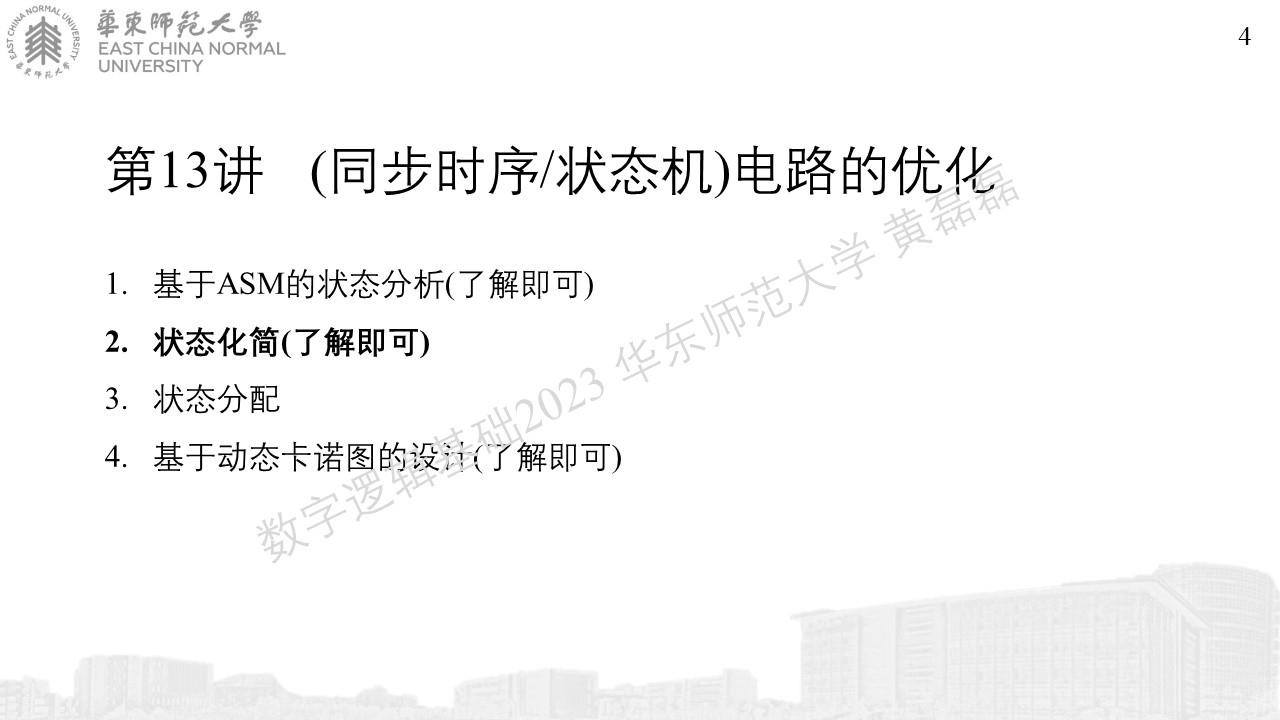
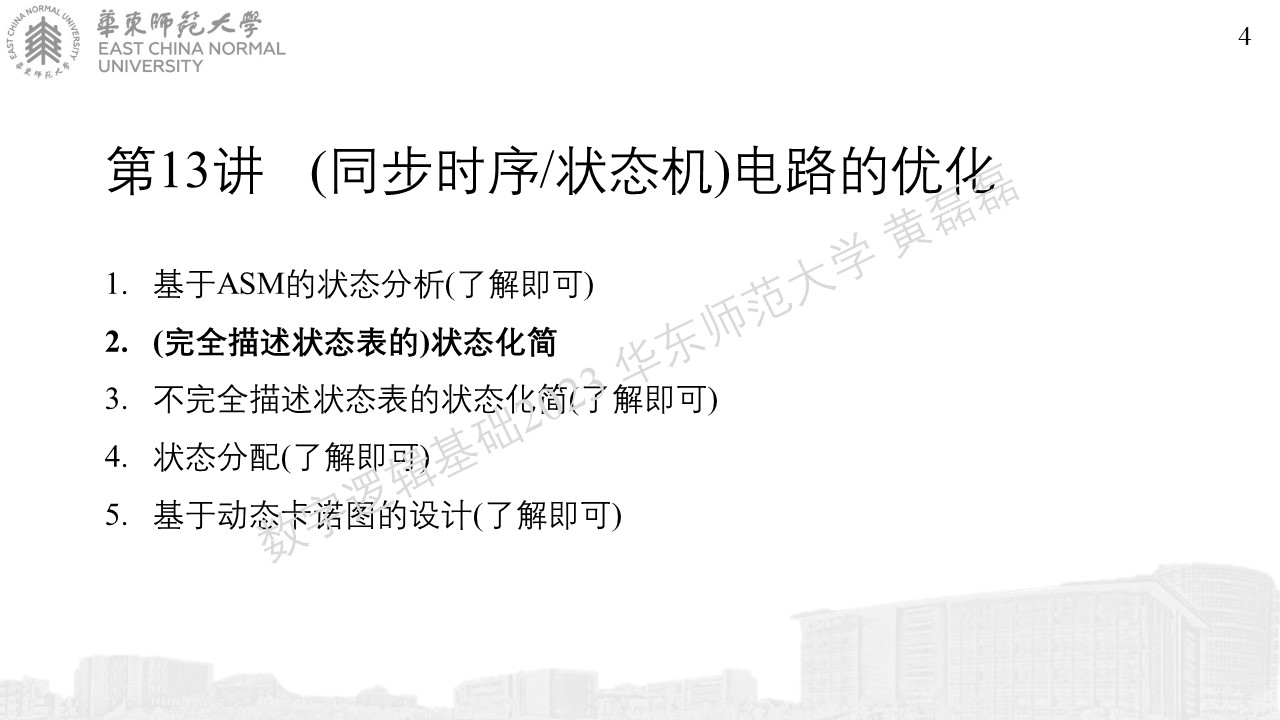
typos fixed

Changed region(s): [[0.0938, 0.4583, 0.5625, 0.5806], [0.125, 0.6111, 0.5, 0.7333], [0.0625, 0.7028, 0.0938, 0.7333]]

diff --git a/source/数字逻辑基础 - 第14讲 - 同步时序(状态机) - 电路的优化/index.rst b/source/数字逻辑基础 - 第14讲 - 同步时序(状态机) - 电路的优化/index.rst
@@ -18,7 +18,7 @@
 .. image:: 幻灯片2.JPG
 .. image:: 幻灯片3.JPG
 
-状态化简
+(完全描述状态表的)状态化简
 ........................................
 .. image:: 幻灯片4.JPG
 .. image:: 幻灯片5.JPG
@@ -28,6 +28,9 @@
 .. image:: 幻灯片9.JPG
 .. image:: 幻灯片10.JPG
 .. image:: 幻灯片11.JPG
+
+不完全描述状态表的状态化简
+........................................
 .. image:: 幻灯片12.JPG
 .. image:: 幻灯片13.JPG
 .. image:: 幻灯片14.JPG
@@ -36,22 +39,23 @@
 .. image:: 幻灯片17.JPG
 .. image:: 幻灯片18.JPG
 .. image:: 幻灯片19.JPG
+.. image:: 幻灯片20.JPG
 
 状态分配
 ........................................
-.. image:: 幻灯片20.JPG
 .. image:: 幻灯片21.JPG
 .. image:: 幻灯片22.JPG
 .. image:: 幻灯片23.JPG
 .. image:: 幻灯片24.JPG
 .. image:: 幻灯片25.JPG
 .. image:: 幻灯片26.JPG
+.. image:: 幻灯片27.JPG
 
 基于动态卡诺图的分析
 ........................................
-.. image:: 幻灯片27.JPG
 .. image:: 幻灯片28.JPG
 .. image:: 幻灯片29.JPG
 .. image:: 幻灯片30.JPG
 .. image:: 幻灯片31.JPG
 .. image:: 幻灯片32.JPG
+.. image:: 幻灯片33.JPG

diff --git a/source/数字逻辑基础 - 第13讲 - 同步时序(状态机) - 电路的设计/index.rst b/source/数字逻辑基础 - 第13讲 - 同步时序(状态机) - 电路的设计/index.rst
@@ -36,22 +36,22 @@
 .. image:: 幻灯片17.JPG
 .. image:: 幻灯片18.JPG
 .. image:: 幻灯片19.JPG
-
-状态分配
-........................................
 .. image:: 幻灯片20.JPG
 .. image:: 幻灯片21.JPG
+
+常见电路的设计
+........................................
 .. image:: 幻灯片22.JPG
 .. image:: 幻灯片23.JPG
 .. image:: 幻灯片24.JPG
 .. image:: 幻灯片25.JPG
 .. image:: 幻灯片26.JPG
-
-基于动态卡诺图的分析
-........................................
 .. image:: 幻灯片27.JPG
 .. image:: 幻灯片28.JPG
 .. image:: 幻灯片29.JPG
+
+基于模16计数器进行设计
+........................................
 .. image:: 幻灯片30.JPG
 .. image:: 幻灯片31.JPG
 .. image:: 幻灯片32.JPG
